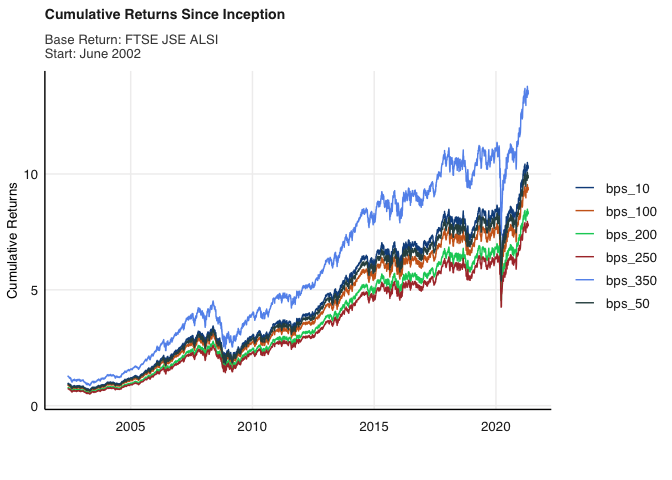
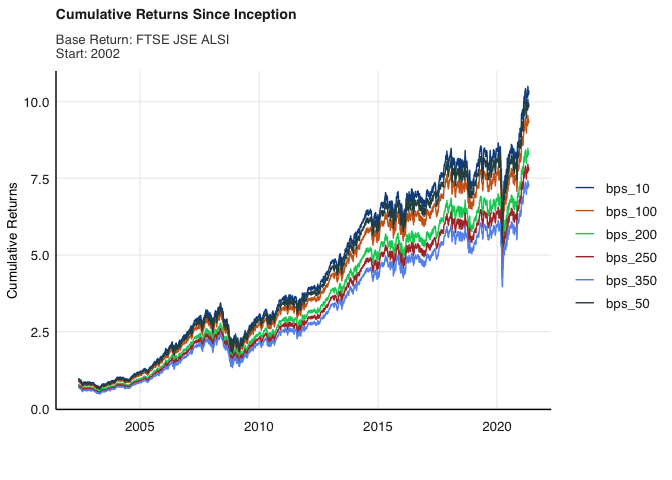
Final Commit

diff --git a/Tyranny_Of_Fees/README.md b/Tyranny_Of_Fees/README.md
@@ -89,7 +89,7 @@ data3 <- data2 %>%
   mutate(bps_100=(cum_ret* (1- 0.10)))%>%
   mutate(bps_200=(cum_ret*(1 - 0.20)))%>%
   mutate(bps_250=(cum_ret* (1 - 0.25)))%>%
-  mutate(bps_350=(cum_ret* (1- -0.30)))
+  mutate(bps_350=(cum_ret* (1 -0.30)))
 ```
 
 Plotting the series since inception
@@ -115,7 +115,7 @@ fmxdat::theme_fmx(title.size = ggpts(30),
   
   labs(x = "", y = "Cumulative Returns", caption = "",
        title = "Cumulative Returns Since Inception",
-       subtitle = "Base Return: FTSE JSE ALSI \nStart: June 2002")
+       subtitle = "Base Return: FTSE JSE ALSI \nStart: 2002")
 
 blah2002
 ```
